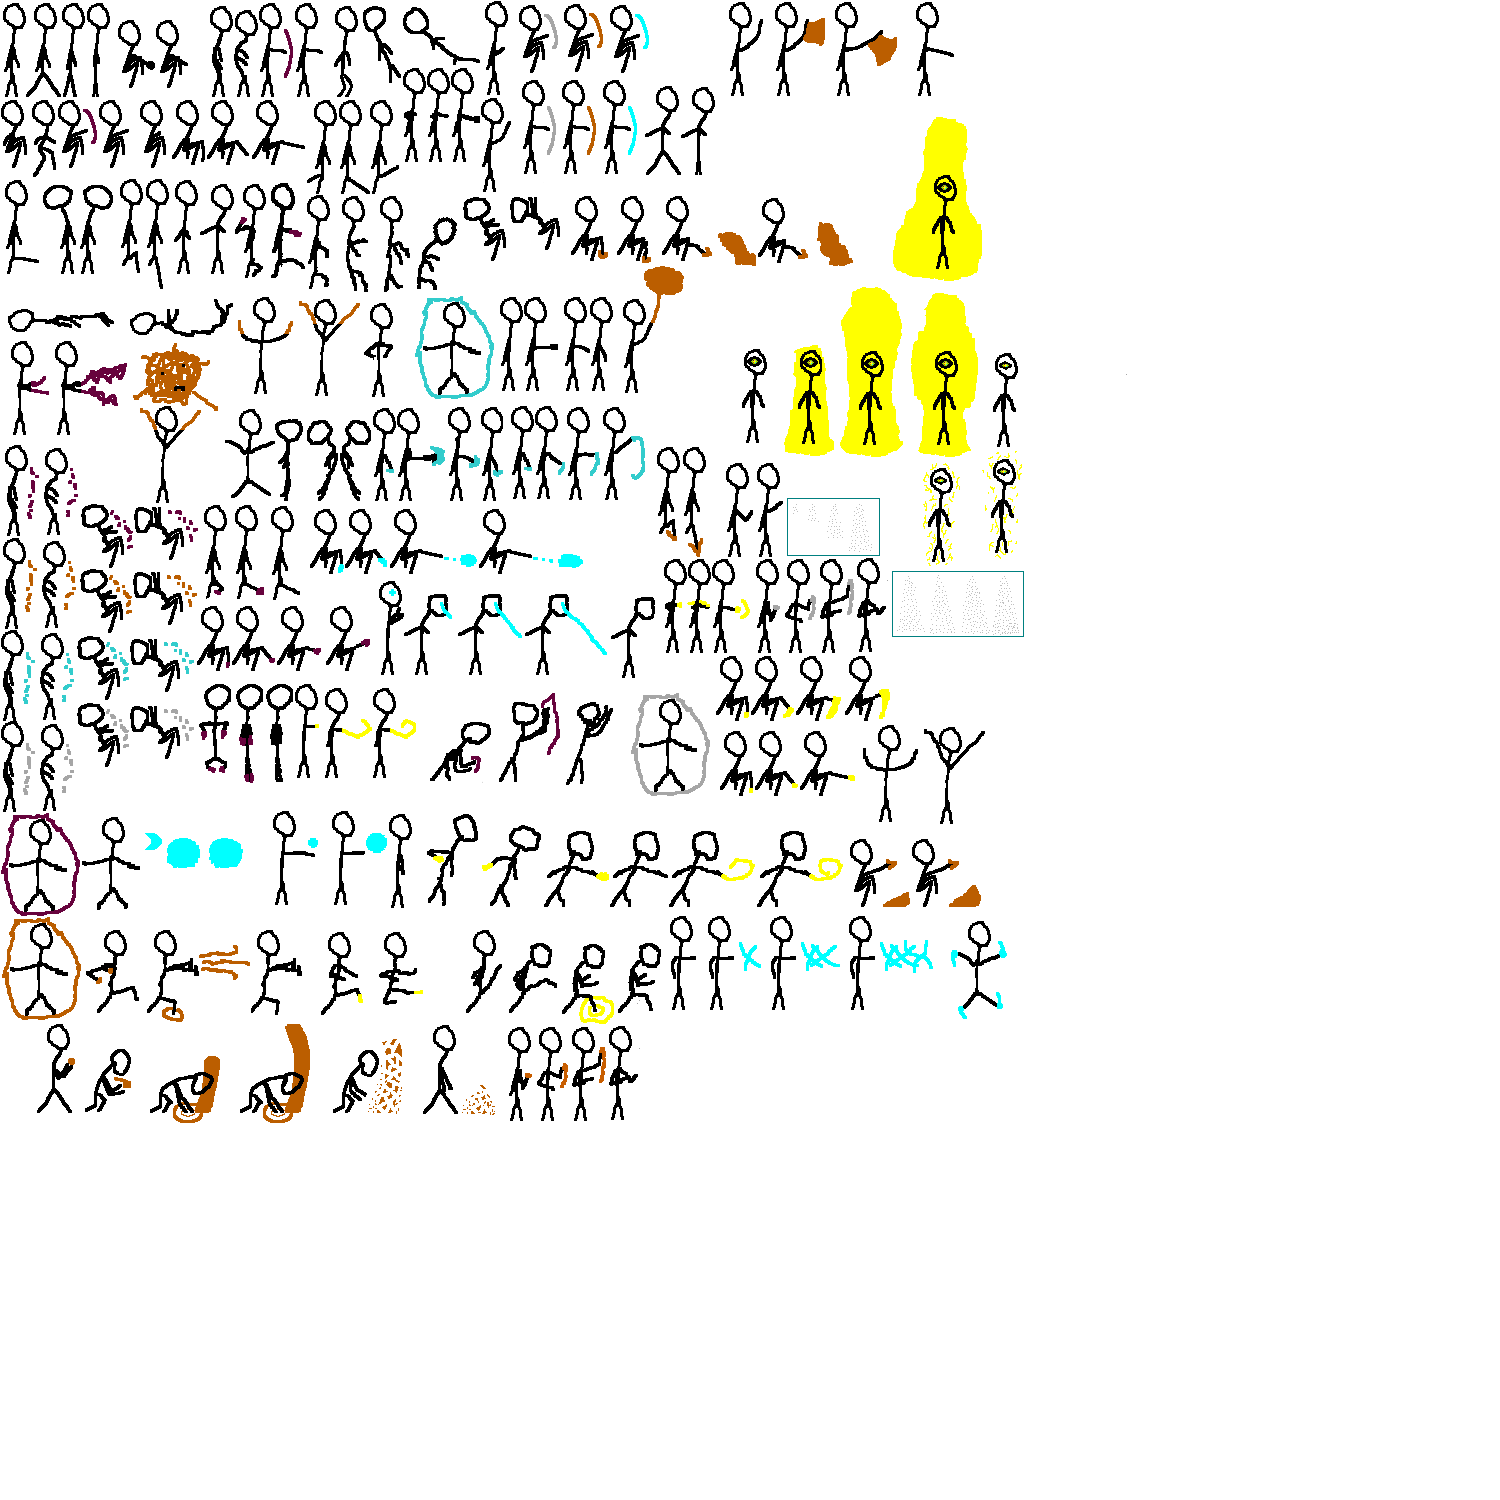
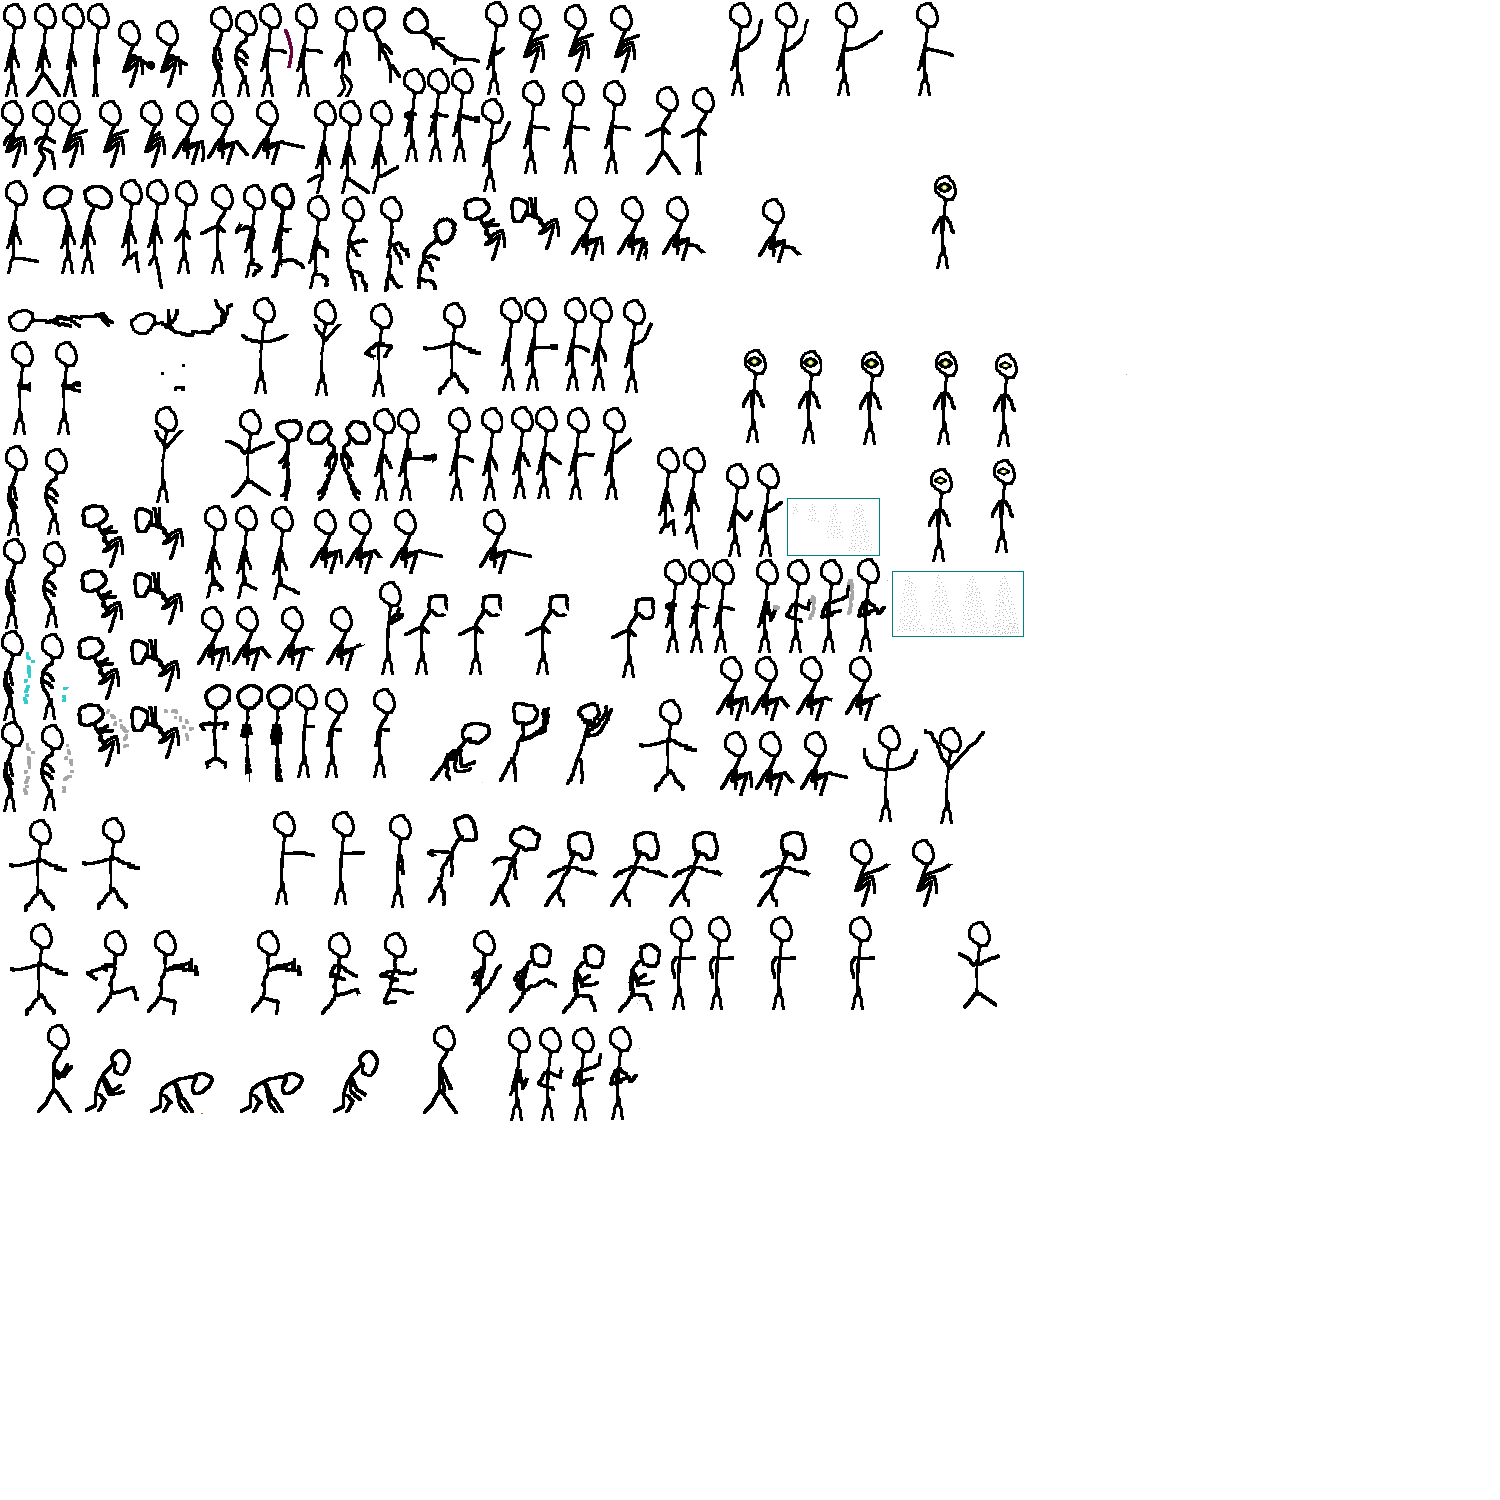
Editor now displays effects

diff --git a/src/FrameDataEditor/EditableObject.cpp b/src/FrameDataEditor/EditableObject.cpp
@@ -30,12 +30,23 @@ void EditableObject::render() const
 		data.textureBounds.size.x * data.scale.x / 2,
 		data.textureBounds.size.y * data.scale.y / 2
 	};
+	this->_sprite.setColor(sf::Color::White);
 	this->_sprite.setOrigin(data.textureBounds.size / 2.f);
 	this->_sprite.setRotation(data.rotation * 180 / M_PI);
 	this->_sprite.setPosition(result);
 	this->_sprite.setScale(data.scale);
 	this->_sprite.textureHandle = data.textureHandle;
 	this->_sprite.setTextureRect(data.textureBounds);
+	SpiralOfFate::game->textureMgr.render(this->_sprite);
+	if (data.oFlag.spiritElement == data.oFlag.matterElement && data.oFlag.matterElement == data.oFlag.voidElement)
+		this->_sprite.setColor(SpiralOfFate::game->typeColors[data.oFlag.spiritElement ? SpiralOfFate::TYPECOLOR_NEUTRAL : SpiralOfFate::TYPECOLOR_NON_TYPED]);
+	else if (data.oFlag.spiritElement)
+		this->_sprite.setColor(SpiralOfFate::game->typeColors[SpiralOfFate::TYPECOLOR_SPIRIT]);
+	else if (data.oFlag.matterElement)
+		this->_sprite.setColor(SpiralOfFate::game->typeColors[SpiralOfFate::TYPECOLOR_MATTER]);
+	else if (data.oFlag.voidElement)
+		this->_sprite.setColor(SpiralOfFate::game->typeColors[SpiralOfFate::TYPECOLOR_VOID]);
+	this->_sprite.textureHandle = data.textureHandleEffects;
 	SpiralOfFate::game->textureMgr.render(this->_sprite);
 
 	rect.setOutlineThickness(2);

diff --git a/src/LibCore/Objects/Characters/Stickman/Stickman.cpp b/src/LibCore/Objects/Characters/Stickman/Stickman.cpp
@@ -183,7 +183,6 @@ namespace SpiralOfFate
 	}
 
 	void Stickman::_computeFrameDataCache()
-
 	{
 		Character::_computeFrameDataCache();
 		if (!this->_hasBuff || !this->_installMoveStarted)
